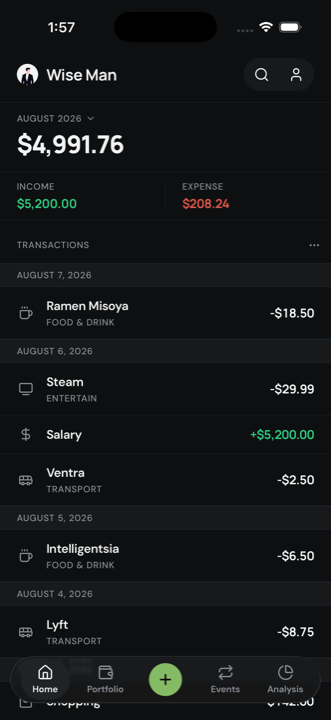
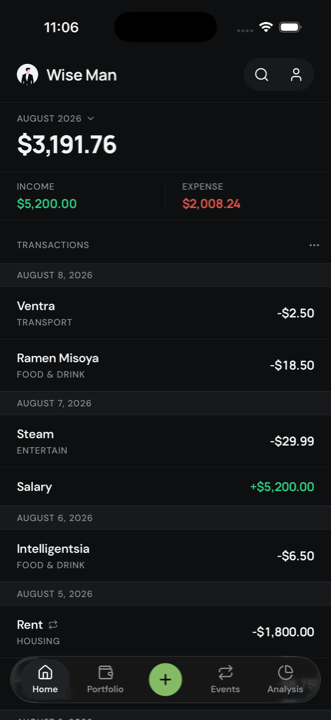
docs: refresh screenshots and record the recurring bill model
Four screens now: Home, Events, and the two forms. Drops the empty New
Transaction shot -- it is the same form as the filled one with nothing in
it, which said less.

Moves Events out of the placeholder row and writes down the one decision
the code cannot show: a bill is a rule rather than a reminder, the
last_posted_date cursor is what makes posting idempotent, and there is no
overdue state because a date that has arrived has already posted.

CLAUDE.md is unchanged. None of its rules became wrong, and how bills
behave is a fact about the project rather than a convention for writing
it.

diff --git a/README.md b/README.md
@@ -5,18 +5,18 @@ seconds; everything stays in SQLite on the device.
 
 ## Screens
 
-| Home                               | New transaction                      | Detail                                 |
-| ---------------------------------- | ------------------------------------ | -------------------------------------- |
-| ![Home](docs/screenshots/home.png) | ![Track](docs/screenshots/track.png) | ![Detail](docs/screenshots/detail.png) |
+| Home                               | Events                                 | Transaction                                      | Bill                               |
+| ---------------------------------- | -------------------------------------- | ------------------------------------------------ | ---------------------------------- |
+| ![Home](docs/screenshots/home.png) | ![Events](docs/screenshots/events.png) | ![Transaction](docs/screenshots/transaction.png) | ![Bill](docs/screenshots/bill.png) |
 
 ## Status
 
-v1 works end to end — create, edit, delete, and it survives a restart.
+Create, edit, delete, and it survives a restart. Recurring bills post themselves.
 
-| Screen                      | State       |
-| --------------------------- | ----------- |
-| Home, Track, Detail         | Done        |
-| Portfolio, Events, Analysis | Placeholder |
+| Screen              | State       |
+| ------------------- | ----------- |
+| Home, Track, Events | Done        |
+| Portfolio, Analysis | Placeholder |
 
 Accounts are not modelled — every transaction is stored against `cash`. Search and the
 profile button in the header are inert.
@@ -48,6 +48,11 @@ against `xcodebuild -showsdks | grep iOS`; if the runtime is behind, run
   sorts chronologically and matches a month by prefix, and the column is indexed.
 - **Categories are ids into `constants/categories.ts`**, not rows. They are code, and a
   table would mean seeding and migrating something that never changes.
+- **A recurring bill is a rule, not a reminder.** Every occurrence it has reached posts an
+  ordinary transaction at launch, dated the day it was due. A `last_posted_date` cursor is
+  what makes that idempotent, so deleting a posted transaction does not bring it back —
+  that is how "this should not have happened" is expressed. There is nothing to tick off
+  and no overdue state: a date that has arrived has already posted.
 
 Run `npx drizzle-kit generate` after editing `db/schema.ts`. Migrations are bundled into
 the JS and applied at launch. In development the `...` menu on Home loads and clears
